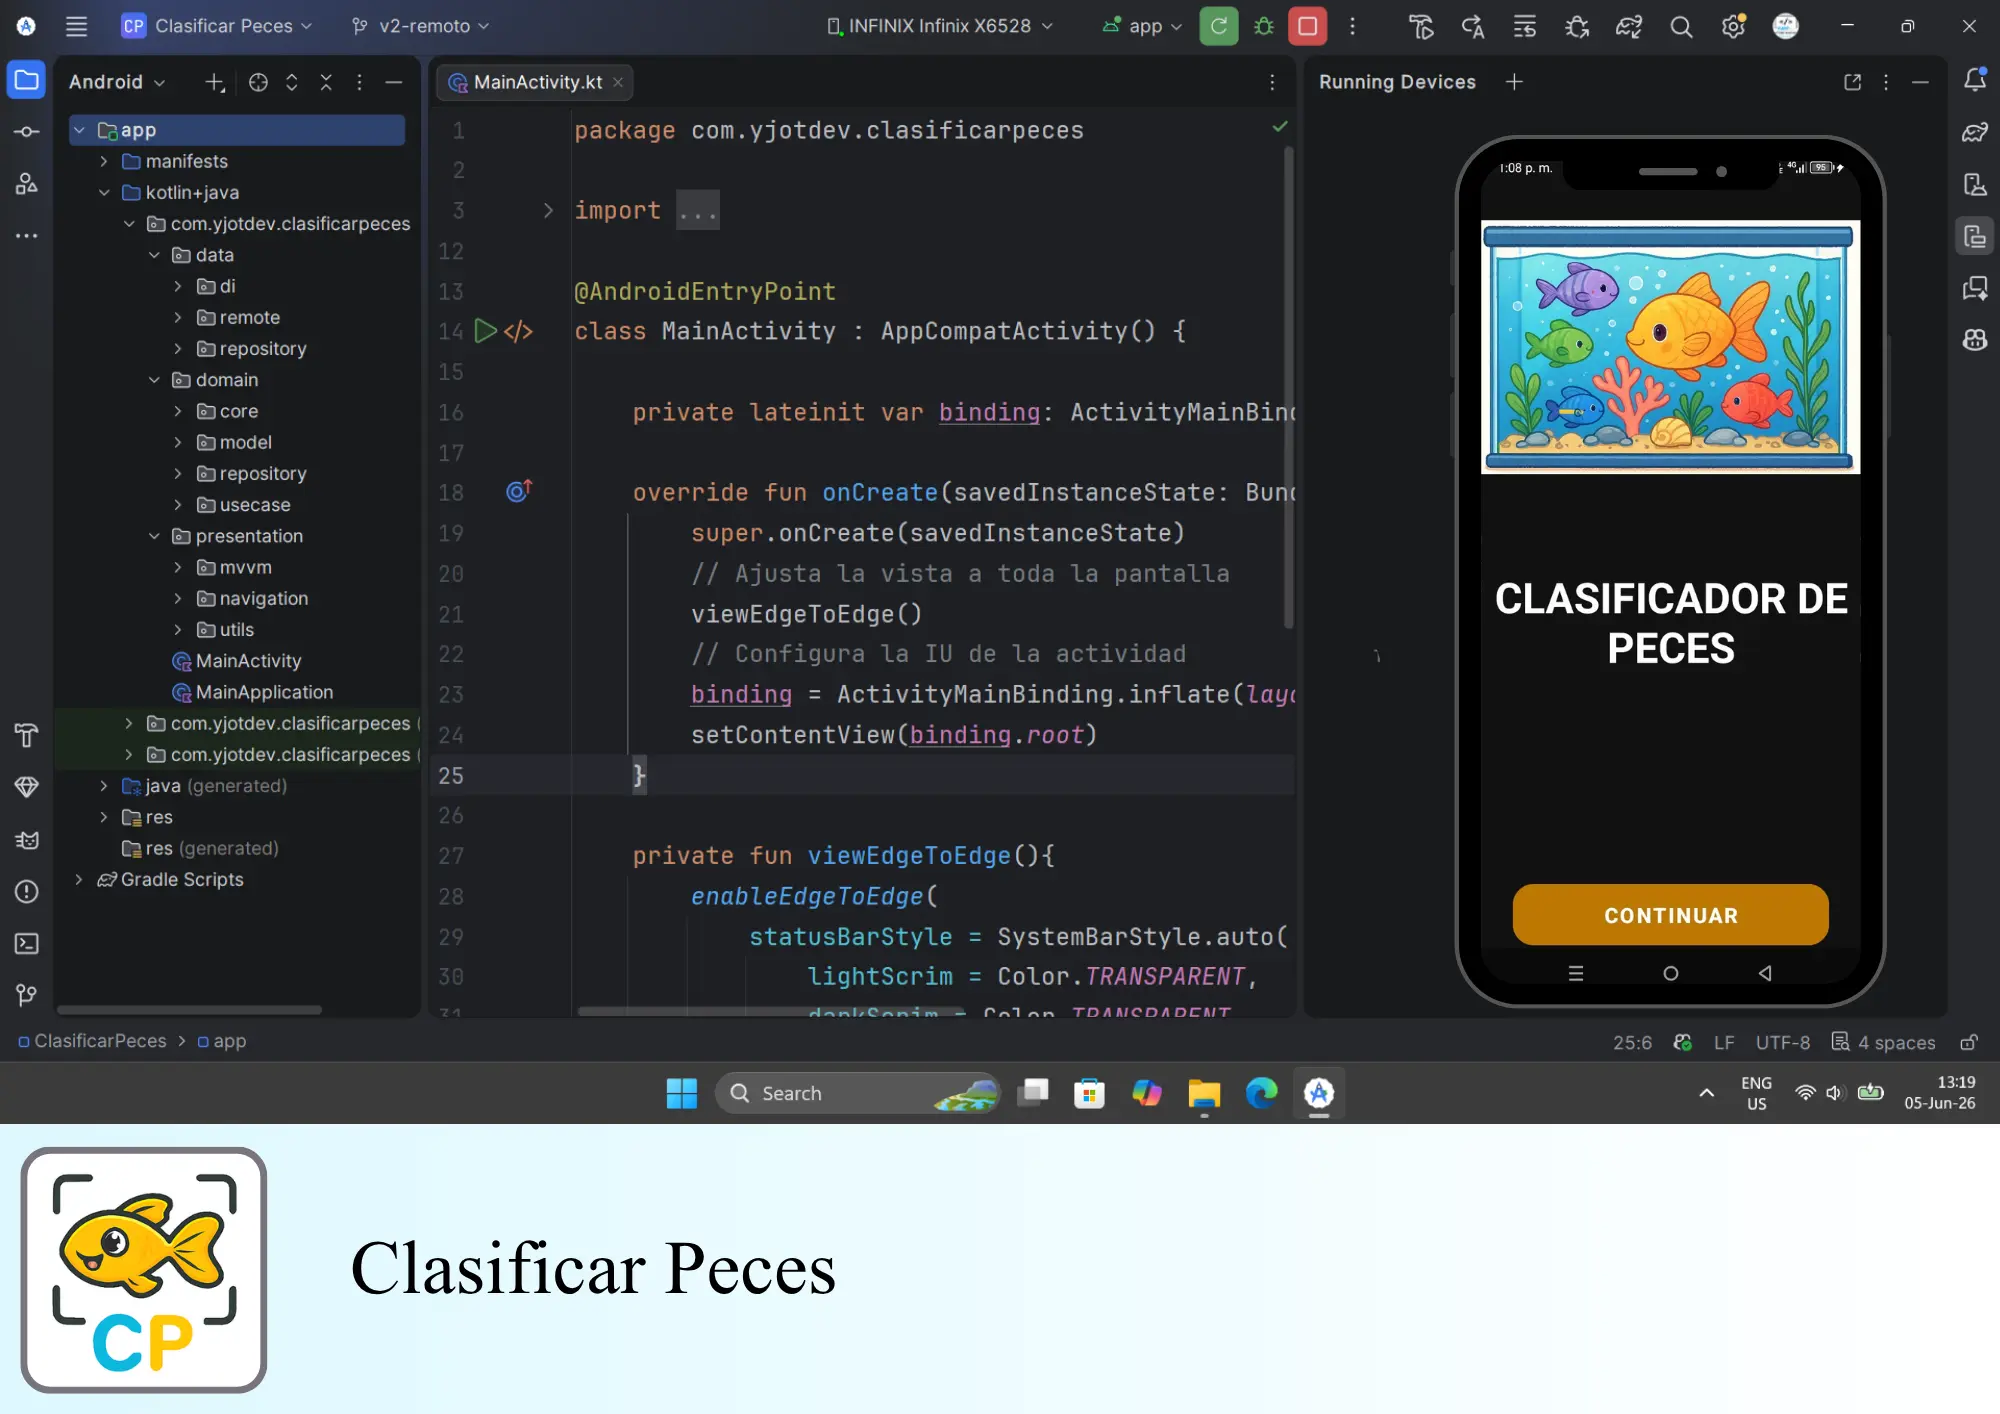
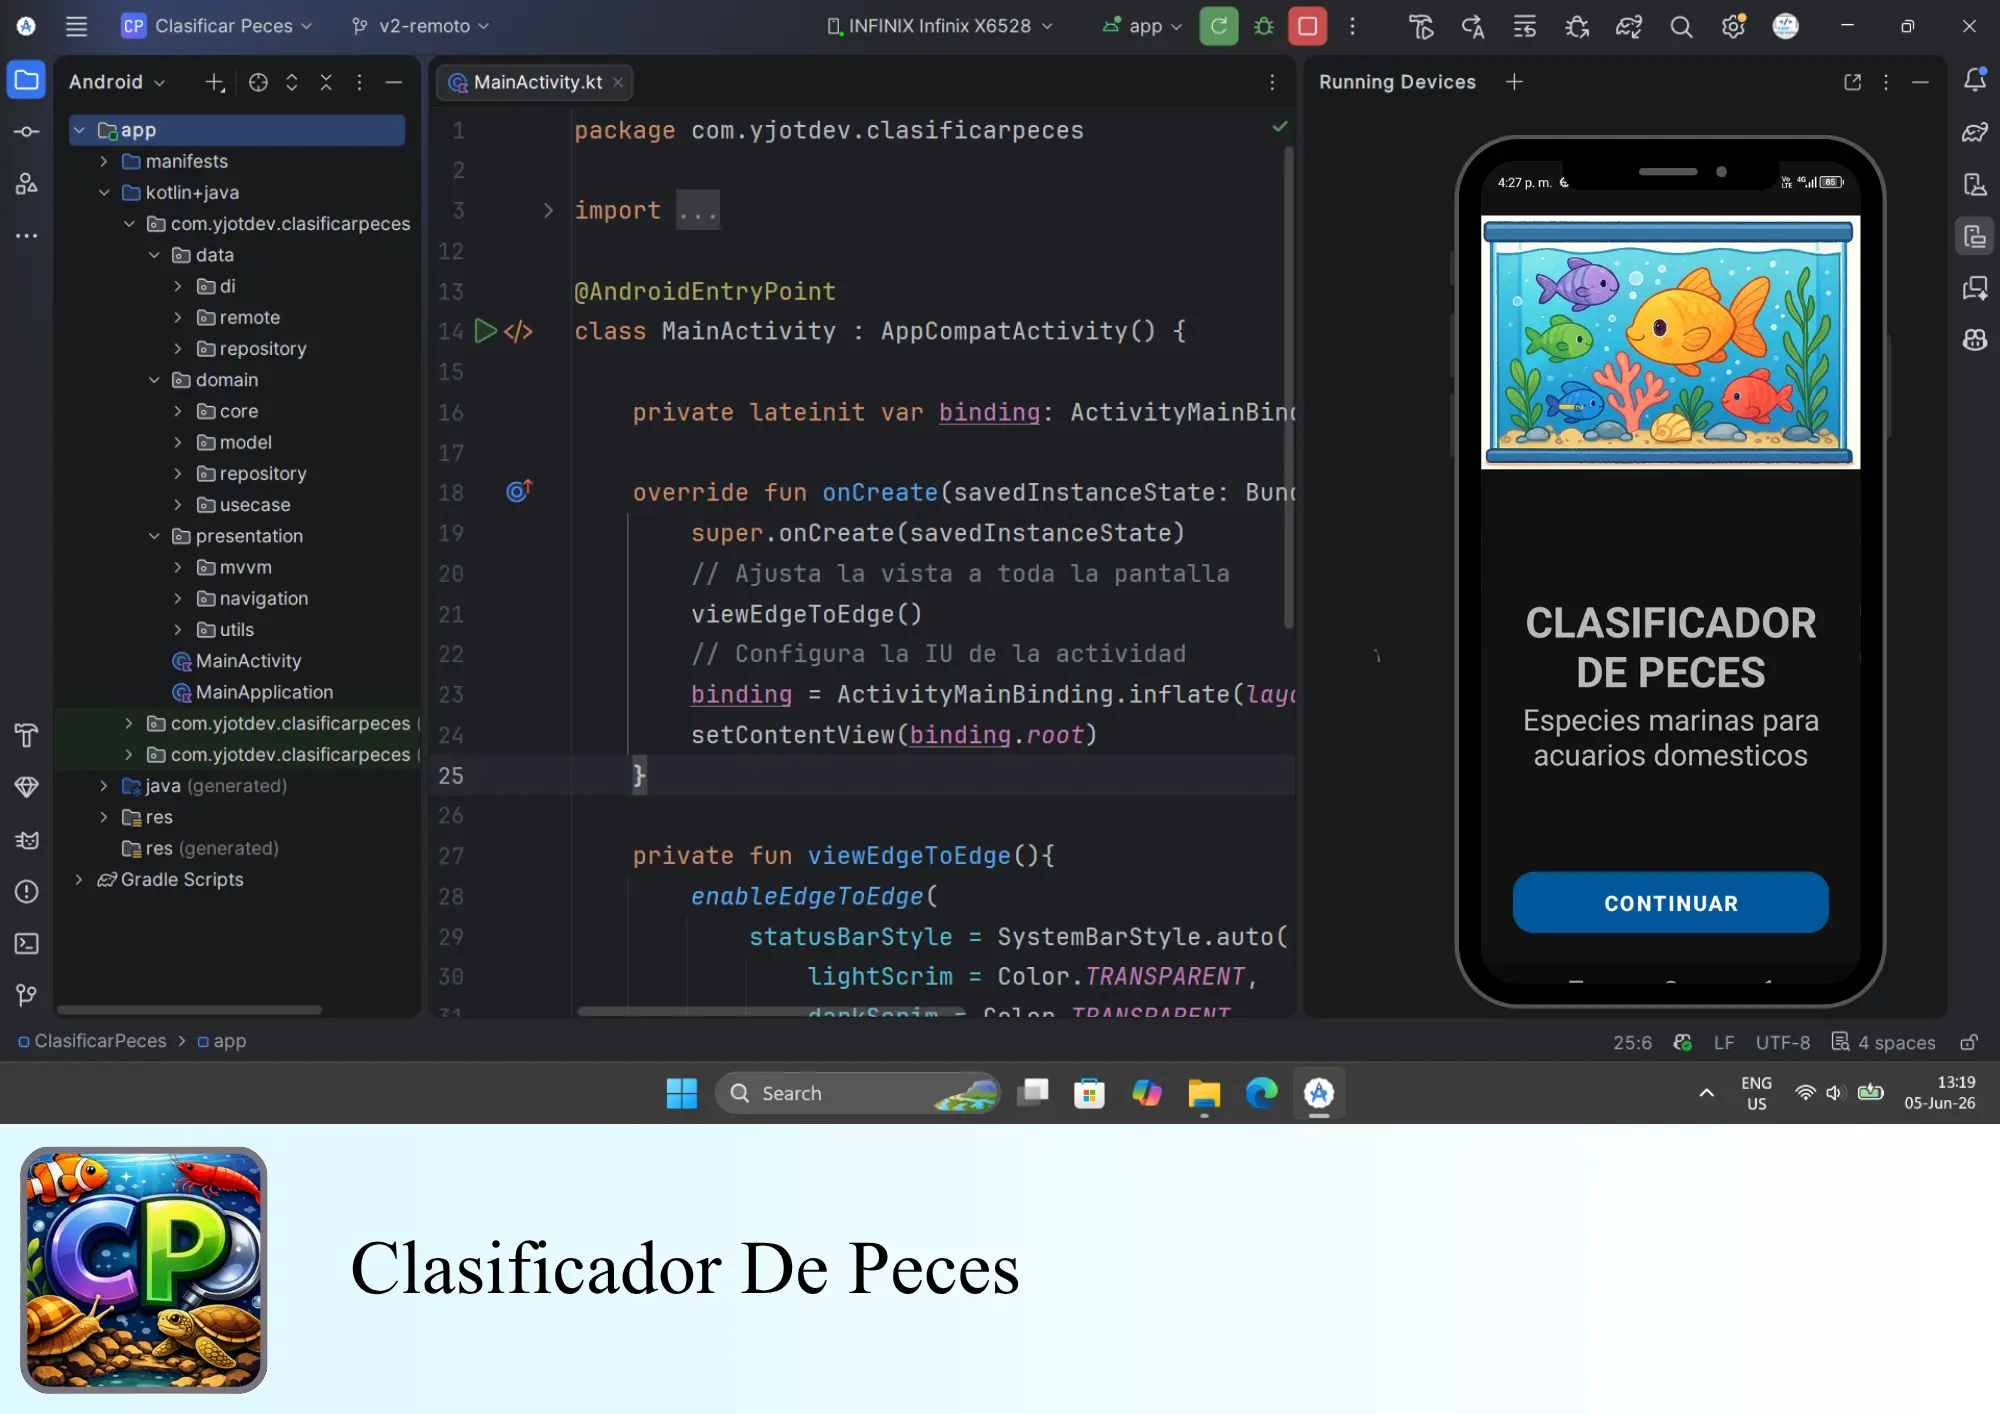
Update of app-cp.html

diff --git a/src/projects.html b/src/projects.html
@@ -62,7 +62,7 @@
         <div class="tabla-2">
           <article class="proyecto">
             <a href="app-oplus.html">
-              <img class="proyectos-img" src="../assets/projects/Android5.webp" alt="Gamificación sobre ortografía">
+              <img class="proyectos-img" src="../assets/projects/android5.webp" alt="Gamificación sobre ortografía">
             </a>
             <h3>Ortografía Plus</h3>
             <ul>
@@ -79,7 +79,7 @@
           </article>
           <article class="proyecto">
             <a href="app-pm.html">
-              <img class="proyectos-img" src="../assets/projects/Android6.webp" alt="Reproductor de música">
+              <img class="proyectos-img" src="../assets/projects/android6.webp" alt="Reproductor de música">
             </a>
             <h3>Player Music</h3>
             <ul>
@@ -87,14 +87,16 @@
               <li><strong>Base de datos:</strong> Room (Local)</li>
               <li><strong>Inyección de dependencias:</strong> Hilt</li>
               <li><strong>Descripción:</strong> Esta app es un reproductor de música local, obtiene la música guardada
-                de la memoria interna y SD del dispositivo, ofrece la opción de agregar y eliminar música de una playlist, 
-                así como crear o quitar una playlist, puede reproducir música en aleatorio, o en secuencia, ademas de repetir
+                de la memoria interna y SD del dispositivo, ofrece la opción de agregar y eliminar música de una
+                playlist,
+                así como crear o quitar una playlist, puede reproducir música en aleatorio, o en secuencia, ademas de
+                repetir
                 la misma música o una única vez.</li>
             </ul>
           </article>
           <article class="proyecto">
             <a href="app-emp.html">
-              <img class="proyectos-img" src="../assets/projects/Android7.webp" alt="Gamificación sobre emprendimiento">
+              <img class="proyectos-img" src="../assets/projects/android7.webp" alt="Gamificación sobre emprendimiento">
             </a>
             <h3>Emprendimiento Primaria</h3>
             <ul>
@@ -111,7 +113,7 @@
           </article>
           <article class="proyecto">
             <a href="app-ar.html">
-              <img class="proyectos-img" src="../assets/projects/Android8.webp" alt="Reportero de incidentes">
+              <img class="proyectos-img" src="../assets/projects/android8.webp" alt="Reportero de incidentes">
             </a>
             <h3>Accident Reporter</h3>
             <ul>
@@ -136,7 +138,7 @@
         <div class="tabla-2">
           <article class="proyecto">
             <a href="app-zteg.html">
-              <img class="proyectos-img" src="../assets/projects/Android1.webp" alt="Zonas turísticas El Guabo">
+              <img class="proyectos-img" src="../assets/projects/android1.webp" alt="Zonas turísticas El Guabo">
             </a>
             <h3>Zonas Turísticas El Guabo</h3>
             <ul>
@@ -153,23 +155,21 @@
           </article>
           <article class="proyecto">
             <a href="app-cp.html">
-              <img class="proyectos-img" src="../assets/projects/Android2.webp" alt="Clasificador de raza de peces">
+              <img class="proyectos-img" src="../assets/projects/android2.webp" alt="Clasificador de raza de peces">
             </a>
-            <h3>Clasificar Peces</h3>
+            <h3>Clasificador De Peces</h3>
             <ul>
               <li><strong>Patrón de diseño arquitectónico:</strong> MVVM + Clean Architecture</li>
+              <li><strong>Base de datos:</strong> MySQL</li>
               <li><strong>API:</strong> Node</li>
               <li><strong>Inyección de dependencias:</strong> Hilt</li>
-              <li><strong>IA:</strong> Red neuronal con Keras y TensorFlow</li>
-              <li><strong>Descripción:</strong> Esta app permite analizar una imagen de tres tipos comunes de peces
-                pequeños
-                de acuario obtenida desde la cámara del dispositivo o la galería de fotos, con el fin de determinar la
-                probabilidad de que sea un pez: Guppy, Betta o Molly, según su forma y color.</li>
+              <li><strong>Descripción:</strong> Esta app permite a los amantes de los acuarios identificar rápidamente
+                las especies de peces más comunes en su colección, ofreciendo información detallada sobre cada una.</li>
             </ul>
           </article>
           <article class="proyecto">
             <a href="app-cdm.html">
-              <img class="proyectos-img" src="../assets/projects/Android3.webp" alt="Calculadora de materiales">
+              <img class="proyectos-img" src="../assets/projects/android3.webp" alt="Calculadora de materiales">
             </a>
             <h3>Calculador De Materiales</h3>
             <ul>
@@ -187,7 +187,7 @@
           </article>
           <article class="proyecto">
             <a href="app-login.html">
-              <img class="proyectos-img" src="../assets/projects/Android4.webp" alt="Login de usuario">
+              <img class="proyectos-img" src="../assets/projects/android4.webp" alt="Login de usuario">
             </a>
             <h3>Login</h3>
             <ul>

diff --git a/src/app-cp.html b/src/app-cp.html
@@ -49,17 +49,16 @@
     <div id="traductor" style="display:none;"></div>
 
     <main>
-        <h2 class="titulo">CLASIFICAR PECES</h2>
+        <h2 class="titulo">CLASIFICADOR DE PECES</h2>
 
         <section>
             <h3 class="subtitulo">Descripción general</h3>
             <div class="contenedor">
                 <article class="perfil">
                     <p>
-                        Clasificar Peces (CP) es una aplicación móvil especializada, diseñada para identificar tres de las especies de
-                        peces de acuario más comunes (Guppy, Betta y Molly) a partir de una imagen. El objetivo
-                        principal es ofrecer al usuario una herramienta rápida y precisa que, mediante el análisis de la
-                        forma y el color en una fotografía, determine la clasificación más probable del pez.
+                        Clasificador de Peces (CP) es una aplicación diseñada para los amantes de los acuarios
+                        domésticos. Su objetivo es ofrecer información confiable y organizada sobre las especies marinas
+                        más comunes que se pueden mantener en casa, incluyendo peces, caracoles, tortugas y gambas.
                     </p>
                 </article>
             </div>
@@ -81,25 +80,15 @@
                             Con un solo toque en el botón <em>Continuar</em>, accede al núcleo de la herramienta.
                         </li>
                         <li>
-                            <strong>Selección, Clasificación e Información:</strong>
-                            Una vez dentro, el usuario interactúa con una vista centralizada que le permite gestionar
-                            todo el proceso de identificación en tres acciones clave:
-                            <ul>
-                                <li><strong>Tomar Foto:</strong> Activa la cámara del dispositivo para capturar una
-                                    imagen del pez en tiempo real. La foto se muestra inmediatamente en un visor de
-                                    imágenes, lista para ser analizada.</li>
-                                <li><strong>Seleccionar Foto:</strong> Permite al usuario acceder a la galería de su
-                                    dispositivo para elegir una imagen existente.</li>
-                                <li><strong>Clasificar Foto:</strong> Con la imagen ya cargada, esta acción inicia el
-                                    proceso de análisis. La aplicación procesa la fotografía y presenta como resultado
-                                    la especie identificada (Guppy, Betta o Molly) junto con la probabilidad de acierto
-                                    de la clasificación.</li>
-                            </ul>
+                            <strong>Búsqueda y selección de especie:</strong>
+                            Una vez dentro, el usuario interactúa con una vista centralizada que le permite seleccionar
+                            una especie marina disponible en la lista completa o escribir el nombre común, el nombre
+                            científico o el tipo de especie para obtener una búsqueda más precisa.
                         </li>
                         <li>
-                            <strong>Información del Pez:</strong>
-                            Una vez obtenido el resultado, el usuario puede dar clic en dicho resultado, mostrando una
-                            nueva vista con más información del pez.
+                            <strong>Información de la especie:</strong>
+                            Una vez obtenido el resultado, el usuario puede dar clic en la especie para ver más
+                            información, mostrando una nueva vista con más detalles de la especie marina.
                         </li>
                     </ol>
                 </article>
@@ -118,7 +107,7 @@
                         <span>Ver código en Github</span>
                     </div>
                     <div class="item-de-tabla">
-                        <a class="icono clickable" href="https://youtu.be/3FDOKiVwNqk" target="_blank">
+                        <a class="icono clickable" href="https://youtu.be/Sn-XClweOvA" target="_blank">
                             <img class="acceso-apps" src="../assets/icons/video.svg" alt="Video demo">
                         </a>
                         <span>Ver video demo en Youtube</span>

diff --git a/index.html b/index.html
@@ -95,7 +95,7 @@
         <div class="tabla-2">
           <article class="proyecto">
             <a href="src/app-emp.html">
-              <img class="proyectos-img" src="assets/projects/Android7.webp" alt="Gamificación sobre emprendimiento">
+              <img class="proyectos-img" src="assets/projects/android7.webp" alt="Gamificación sobre emprendimiento">
             </a>
             <h3>Emprendimiento Primaria</h3>
             <ul>
@@ -112,7 +112,7 @@
           </article>
           <article class="proyecto">
             <a href="src/app-ar.html">
-              <img class="proyectos-img" src="assets/projects/Android8.webp" alt="Reportero de incidentes">
+              <img class="proyectos-img" src="assets/projects/android8.webp" alt="Reportero de incidentes">
             </a>
             <h3>Accident Reporter</h3>
             <ul>

diff --git a/src/app-zteg.html b/src/app-zteg.html
@@ -114,7 +114,7 @@
             <span>Ver código en Github</span>
           </div>
           <div class="item-de-tabla">
-            <a class="icono clickable" href="https://youtu.be/j8NLcXpDnHI" target="_blank">
+            <a class="icono clickable" href="https://youtu.be/PMSeZMcdUGI" target="_blank">
               <img class="acceso-apps" src="../assets/icons/video.svg" alt="Video demo">
             </a>
             <span>Ver video demo en Youtube</span>
